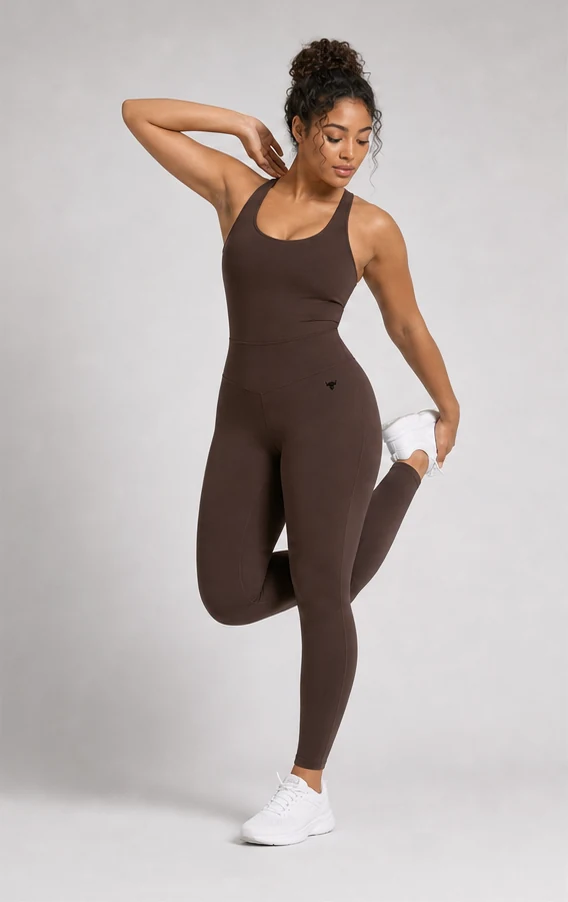
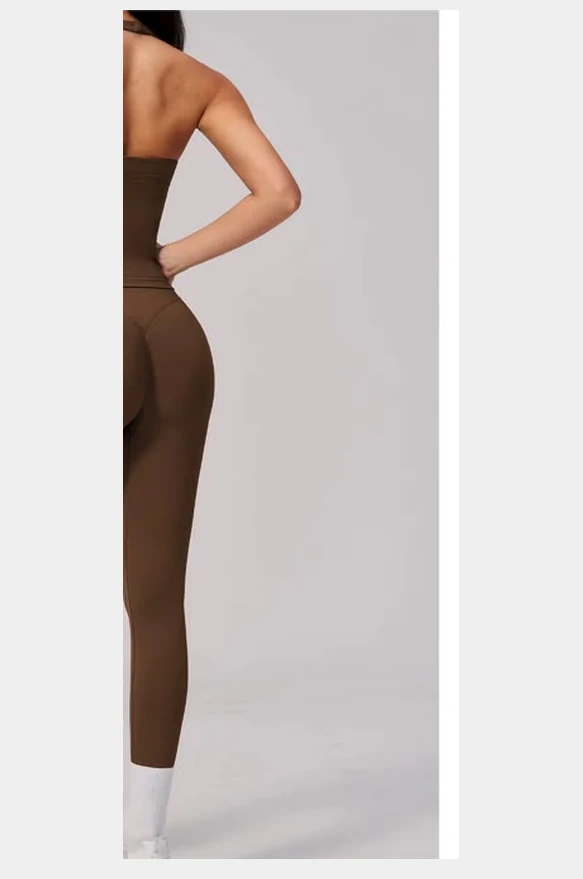
Fix first KALM Move women supplier product imagery

diff --git a/KALM_MOVE_IMAGE_REBUILD_AUDIT.md b/KALM_MOVE_IMAGE_REBUILD_AUDIT.md
@@ -21,7 +21,7 @@ Benchmark: KALM Move Motion Hoodie. A benchmark-compliant product has variant-sp
 
 | New product direction | Reference files | Classification | Notes |
 |---|---|---|---|
-| KALM Move Align Strappy Jumpsuit | `IMG-20260709-WA0077` to `WA0081` | REBUILD | Full-length crisscross-back one-piece |
+| KALM Move Align Halter Legging Set | `IMG-20260709-WA0079` to `WA0081` | REBUILD | V-front halter/tank top with open back and high-waist full-length leggings |
 | KALM Move Form Short Set | `IMG-20260709-WA0082` to `WA0085` | REBUILD | Bra and fitted short set |
 | KALM Move Pulse Crop Short Set | `IMG-20260709-WA0086` to `WA0088` | REBUILD | High-neck crop and layered short silhouette |
 | KALM Move Ease Flare Legging | `IMG-20260709-WA0089` to `WA0091` | REBUILD | Relaxed flare / wide-leg legging |
@@ -67,7 +67,7 @@ Current live-ready women clothing products:
 
 | Product | Live colours | Sizes | Image structure |
 |---|---|---|---|
-| KALM Move Align Strappy Jumpsuit | Grayish Blue, Date Brown | S, M, L, XL | `front.webp`, `angle.webp`, `movement.webp` per colour |
+| KALM Move Align Halter Legging Set | Black, Pink Drink, Grayish Blue, Delicate Red, Date Brown | S, M, L, XL | Source-derived `front.webp`, `angle.webp`, `movement.webp` per colour |
 | KALM Move Form Short Set | White | S, M, L, XL | `front.webp`, `angle.webp`, `movement.webp` |
 | KALM Move Pulse Crop Short Set | Black | S, M, L, XL | `front.webp`, `angle.webp`, `movement.webp` |
 | KALM Move Ease Flare Legging | Gray Blue | XS, S, M, L, XL | `front.webp`, `angle.webp`, `movement.webp` |

diff --git a/KALM_MOVE_SUPPLIER_REFERENCE_NOTES.md b/KALM_MOVE_SUPPLIER_REFERENCE_NOTES.md
@@ -8,7 +8,8 @@ Extraction note: Windows `Expand-Archive` reported a corrupt local file header, 
 
 | Reference files | Interpreted product style | Visible colours | Visible sizes | Status |
 |---|---|---|---|---|
-| `IMG-20260709-WA0077` to `IMG-20260709-WA0081` | Strappy full-length jumpsuit / one-piece | Black, Pink Drink, Grayish Blue, Delicate Red, Date Brown | S, M, L, XL | Use as new women product |
+| `IMG-20260709-WA0077` to `IMG-20260709-WA0078` | Cross-back tank with flare-leg active bottom | Colours visible as swatches only; full variation panel not supplied | Size panel not supplied | Reference-only until colour/size panel is provided |
+| `IMG-20260709-WA0079` to `IMG-20260709-WA0081` | Halter/tank top with open back and full-length fitted leggings | Black, Pink Drink, Grayish Blue, Delicate Red, Date Brown | S, M, L, XL | Use as first corrected women product |
 | `IMG-20260709-WA0082` to `IMG-20260709-WA0085` | Sports bra and short suit | Brown, Khaki, Dark Purple, Sky Blue, Yellow, Black, Pink, Orange, Dark Red, White | S, M, L, XL | Use as new women product |
 | `IMG-20260709-WA0086` to `IMG-20260709-WA0088` | High-neck crop top and layered short set | Goose Yellow, Cherry Blossom, Phantom Blue, Flaxen, Black, Indigo Blue | S, M, L, XL | Use as new women product |
 | `IMG-20260709-WA0089` to `IMG-20260709-WA0091` | Flared / relaxed legging | Light Blue, Gray, Cream Yellow, Gray Blue, Pink, Dark Purple, Black, Burgundy Red, Brown, Rose Red, Light Grey, Blue | XS, S, M, L, XL | Use as new women product |

diff --git a/PRODUCT_IMAGE_QA_AUDIT.md b/PRODUCT_IMAGE_QA_AUDIT.md
@@ -111,7 +111,7 @@ The current KALM Move women clothing range is rebuilt from Munya's supplied supp
 
 | Product | Live colours | Sizes | Image count per live colour | Source status | QA status |
 |---|---|---|---|---|---|
-| KALM Move Align Strappy Jumpsuit | Grayish Blue, Date Brown | S, M, L, XL | 3 | Generated model-on-body images matched to `IMG-20260709-WA0077` to `WA0081` | Complete for source-backed reset |
+| KALM Move Align Halter Legging Set | Black, Pink Drink, Grayish Blue, Delicate Red, Date Brown | S, M, L, XL | 3 | Source-derived model images cropped/recoloured from `IMG-20260709-WA0079` to `WA0081` to preserve the supplier halter/open-back top and legging construction | Complete for first-product source lock |
 | KALM Move Form Short Set | White | S, M, L, XL | 3 | Generated model-on-body images matched to `IMG-20260709-WA0082` to `WA0084` | Complete for source-backed reset |
 | KALM Move Pulse Crop Short Set | Black | S, M, L, XL | 3 | Generated model-on-body images matched to `IMG-20260709-WA0085` to `WA0087` | Complete for source-backed reset |
 | KALM Move Ease Flare Legging | Gray Blue | XS, S, M, L, XL | 3 | Generated model-on-body images matched to `IMG-20260709-WA0088` to `WA0091` | Complete for source-backed reset |

diff --git a/MODEL_DIVERSITY_AUDIT.md b/MODEL_DIVERSITY_AUDIT.md
@@ -112,7 +112,7 @@ Current new women products and live source-backed coverage:
 
 | Product | Live colours | Model/body note | Status |
 |---|---|---|---|
-| KALM Move Align Strappy Jumpsuit | Grayish Blue, Date Brown | Generated adult model imagery matched to supplier one-piece/cross-back reference; Black and mixed-race/Coloured representation | Complete for supplied-reference reset |
+| KALM Move Align Halter Legging Set | Black, Pink Drink, Grayish Blue, Delicate Red, Date Brown | Source-derived supplier model imagery. Diversity is intentionally not expanded for this first product because preserving the exact supplier halter/open-back construction took priority over model variety. | Complete for first-product source lock |
 | KALM Move Form Short Set | White | Generated adult South Asian/Indian model imagery matched to supplier fitted short-set reference | Complete for supplied-reference reset |
 | KALM Move Pulse Crop Short Set | Black | Generated adult White model imagery matched to supplier high-neck crop and short-set reference | Complete for supplied-reference reset |
 | KALM Move Ease Flare Legging | Gray Blue | Generated adult Black model imagery matched to supplier flare-legging reference | Complete for supplied-reference reset |

diff --git a/VARIANT_IMAGE_AUDIT.md b/VARIANT_IMAGE_AUDIT.md
@@ -54,7 +54,7 @@ The previous KALM Move women clothing rows for Everyday Movement Legging, Medium
 
 | Product | Colour variants | Images exist per colour? | Missing images | Fallback used? | Fixed? |
 |---|---|---|---|---|---|
-| KALM Move Align Strappy Jumpsuit | Grayish Blue, Date Brown | Yes, 3 per live colour | None for live colours | No | Yes |
+| KALM Move Align Halter Legging Set | Black, Pink Drink, Grayish Blue, Delicate Red, Date Brown | Yes, 3 source-derived images per live colour | None for live colours | No | Yes |
 | KALM Move Form Short Set | White | Yes, 3 per live colour | None for live colours | No | Yes |
 | KALM Move Pulse Crop Short Set | Black | Yes, 3 per live colour | None for live colours | No | Yes |
 | KALM Move Ease Flare Legging | Gray Blue | Yes, 3 per live colour | None for live colours | No | Yes |
